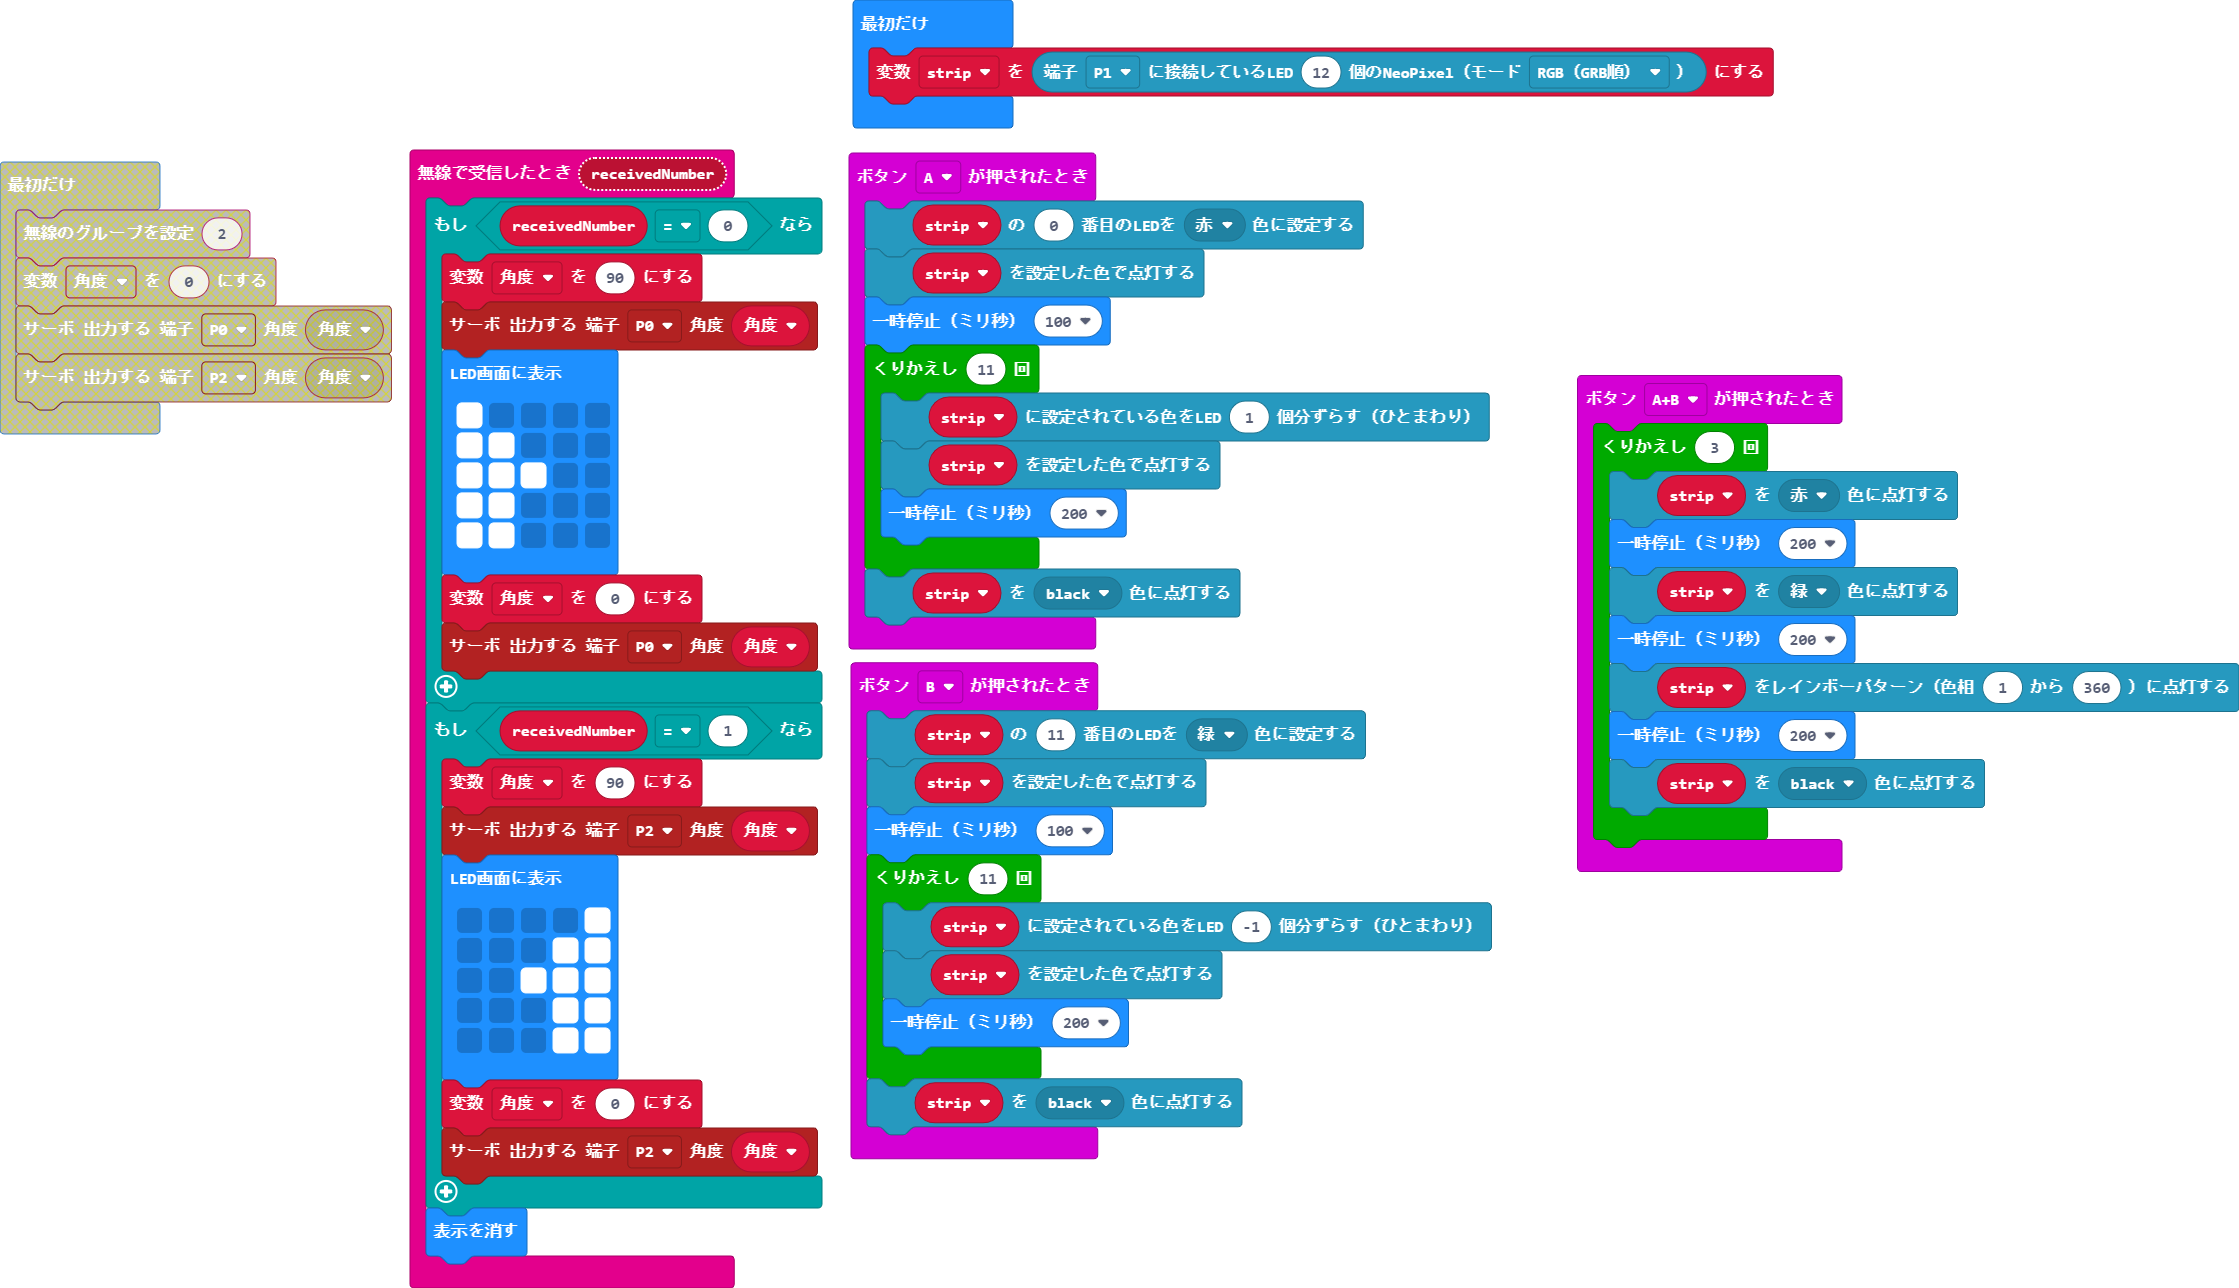
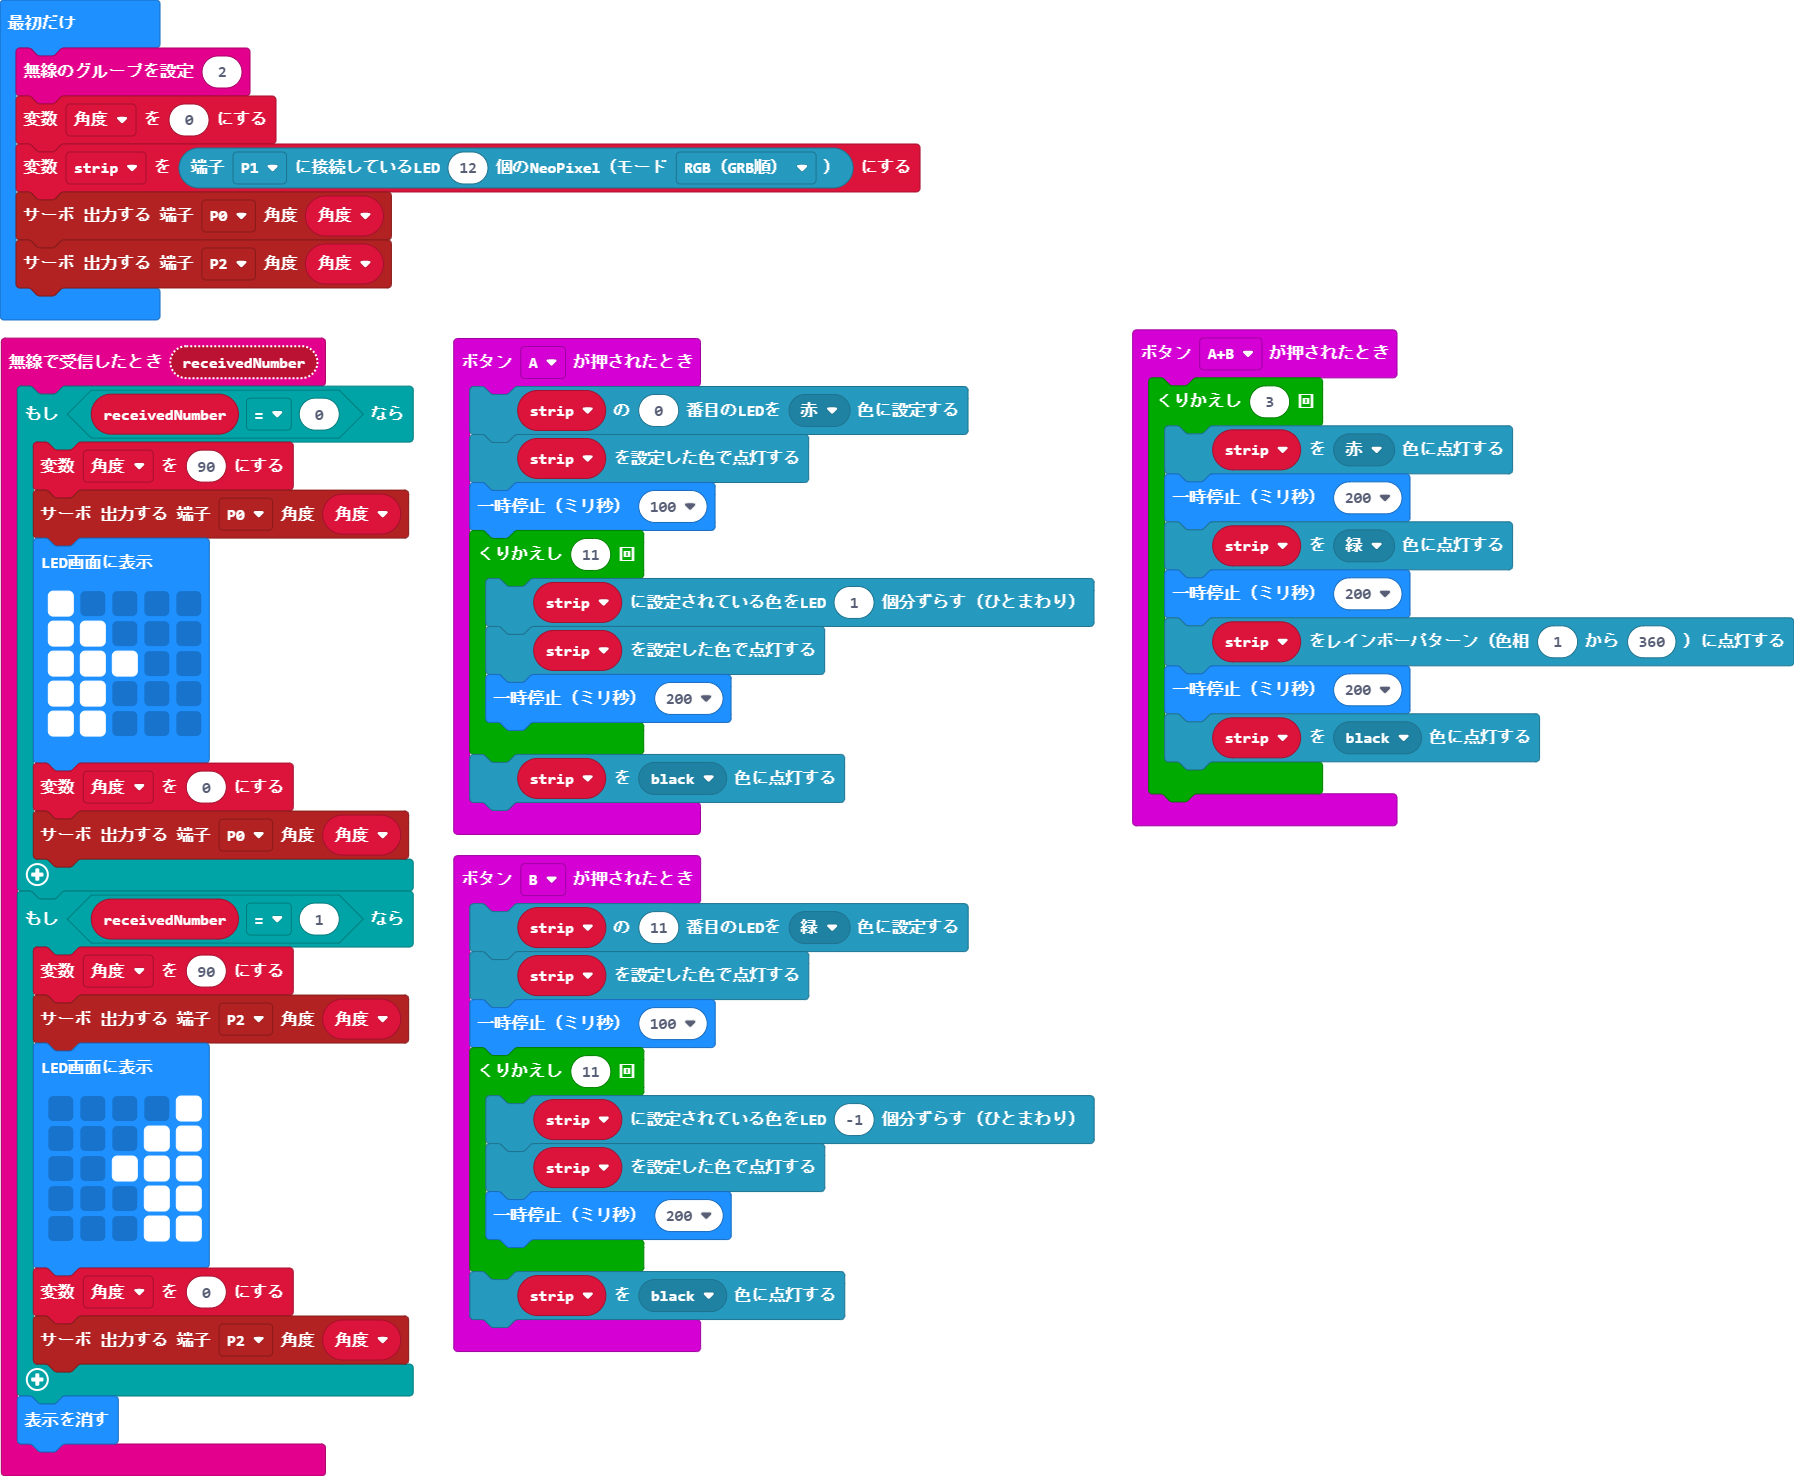
更新 main.blocks, main.ts

diff --git a/main.ts b/main.ts
@@ -60,6 +60,10 @@ input.onButtonPressed(Button.B, function () {
     }
     strip.showColor(neopixel.colors(NeoPixelColors.Black))
 })
-let 角度 = 0
 let strip: neopixel.Strip = null
+let 角度 = 0
+radio.setGroup(2)
+角度 = 0
 strip = neopixel.create(DigitalPin.P1, 12, NeoPixelMode.RGB)
+pins.servoWritePin(AnalogPin.P0, 角度)
+pins.servoWritePin(AnalogPin.P2, 角度)
